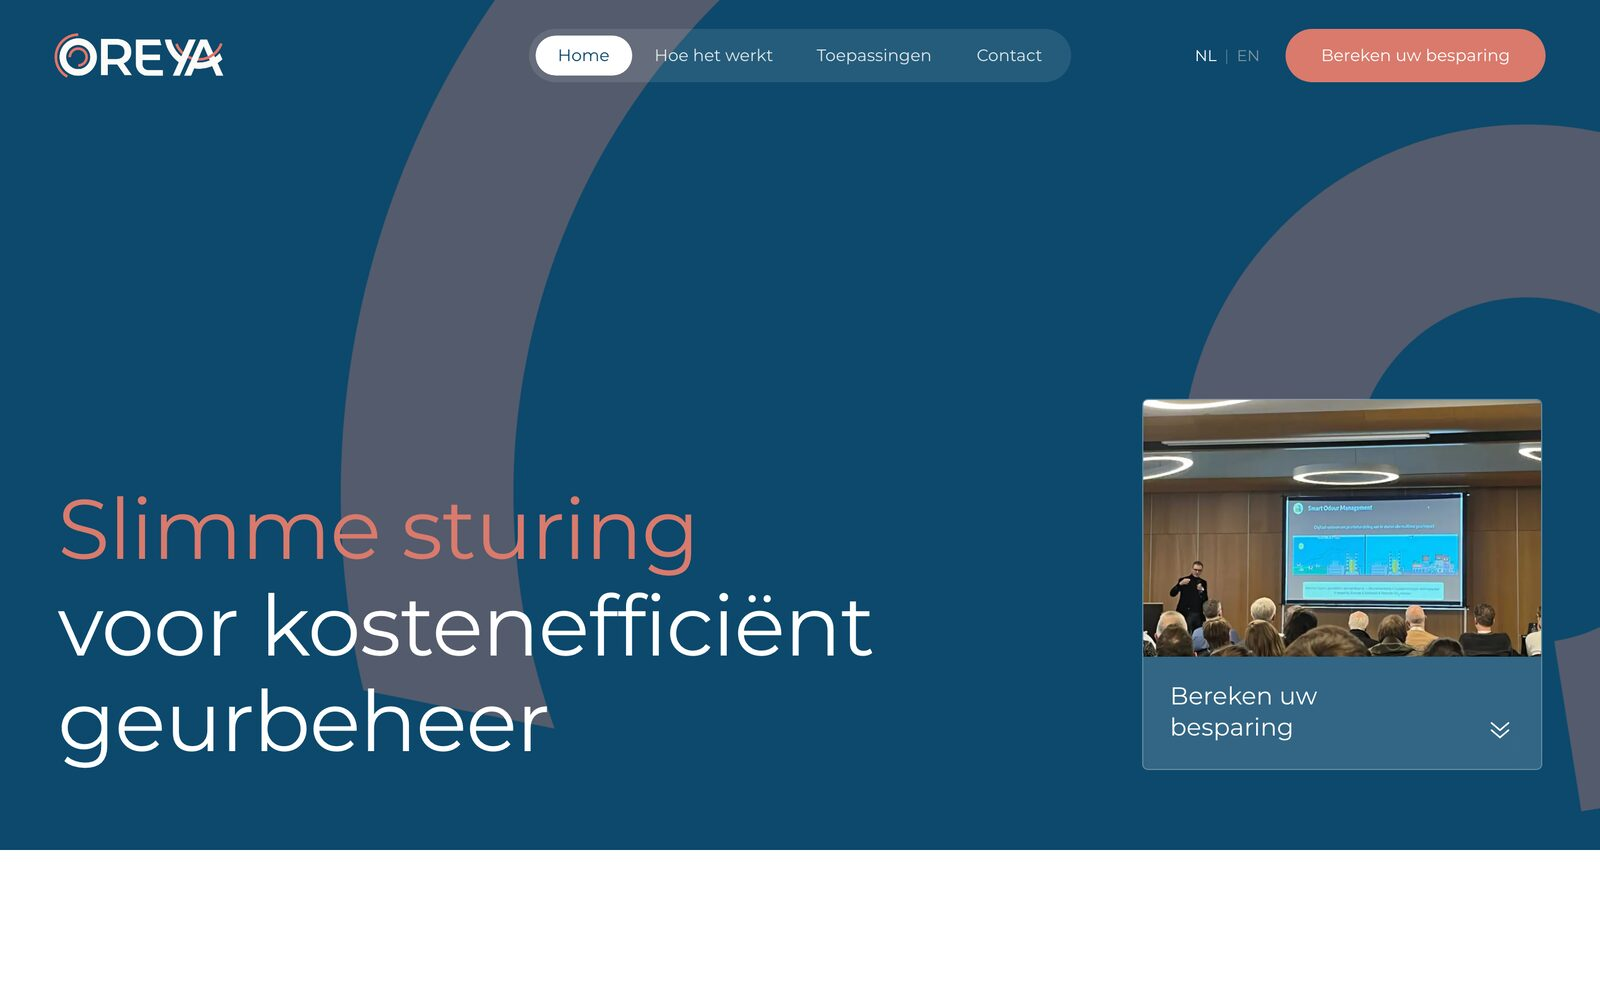
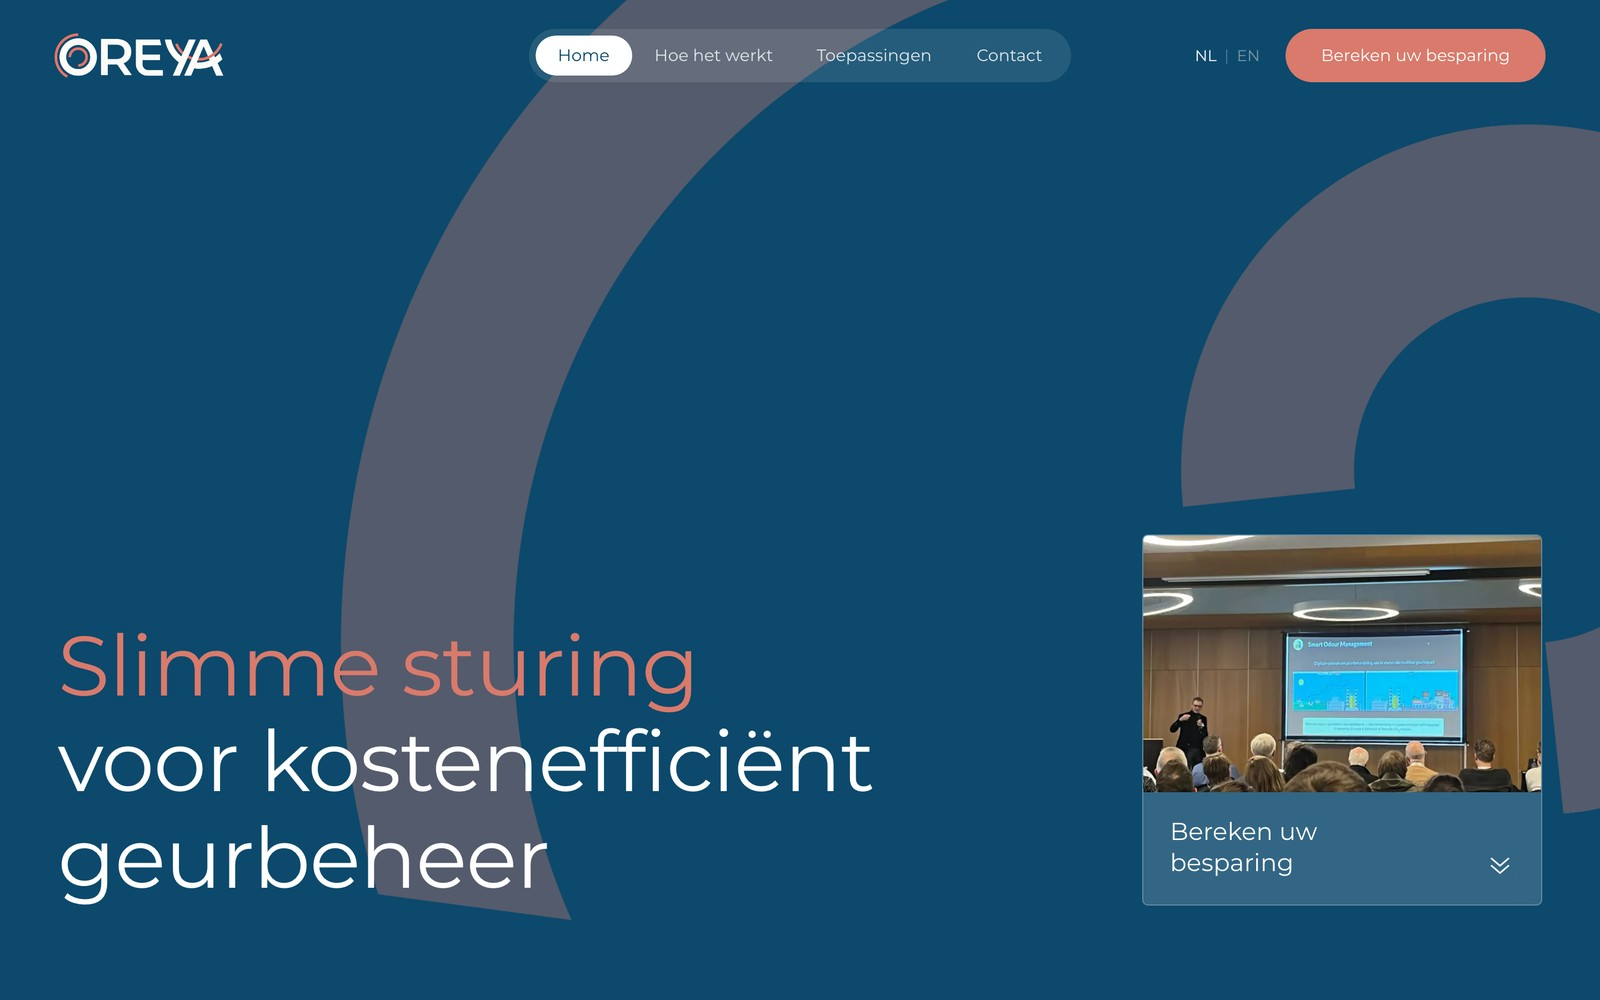
chore: tweaks

diff --git a/src/styles/components/_marquee.css b/src/styles/components/_marquee.css
@@ -9,3 +9,12 @@
 .c-marquee--fill{background:var(--paper);color:var(--ink)}
 .c-marquee__fill{position:absolute;inset:0;background:var(--accent);transform:scaleX(0);transform-origin:left}
 .c-marquee--fill .c-marquee__track{position:relative}
+/* on the /work cards (ProjectGlobe layout grid): the project's name and description under its image, a CSS loop
+   (two equal halves, the track moves by one half); no scroll boost (JS-free, so the list's copies run) */
+.c-marquee--card{width:100%;font-size:var(--fs-body);z-index:auto}
+.c-marquee--card .c-marquee__track{animation:c-marquee-card 28s linear infinite}
+.c-marquee--card .c-marquee__half{display:inline-flex}
+.c-marquee--card .c-marquee__item{gap:var(--space-s);padding-right:var(--space-s)}
+.c-marquee__name{font-weight:500}
+@keyframes c-marquee-card{to{transform:translate3d(-50%,0,0)}}
+@media (prefers-reduced-motion:reduce){ .c-marquee--card .c-marquee__track{animation:none} }

diff --git a/src/styles/base/_tokens.css b/src/styles/base/_tokens.css
@@ -30,6 +30,7 @@
   --on-fg:#170e0b;    /* text on an --fg background (buttons) */
   --surface:#1d1310;  /* panels above the page (cookie banner) */
   --paper:#ffffff;    /* the filling marquee before the accent comes in */
+  --thumb-field:#3a322e; /* the field behind the projects' thumbnails (cards, home's preview, detail visual): a warm charcoal, one in every theme — reads on the paper and a step off the dark chapters (tried Oct 2026: white, paper, grey, ink; the projects' own colours) */
   --thumb:#f3eee8;    /* the field behind a project thumbnail (its home page's screenshot): the page's opposite, for contrast */
   --grain:.07;        /* the paper grain over the site (_grain.css) */
   --page:var(--bg);   /* the page's background */

diff --git a/src/styles/components/_visual.css b/src/styles/components/_visual.css
@@ -18,5 +18,5 @@
 /* thumb (the /work cards, the detail page, scroll-next): the home page's screenshot on a field in the project's own
    light colour (--tb, colors.b), as the home showreel (tried: the page's opposite colour, --thumb; the mood photo
    behind it, too busy) */
-.c-visual--thumb{background:var(--tb,var(--thumb))}
+.c-visual--thumb{background:var(--thumb-field)} /* a neutral field behind every thumbnail (Oct 2026: was the project's own colour, --tb, which clashed with the site's palette); --thumb-field in _tokens.css */
 .c-visual--thumb .c-visual__shot{box-shadow:0 14px 34px rgb(23 14 11 / .28)}

diff --git a/CLAUDE.md b/CLAUDE.md
@@ -30,7 +30,7 @@ Astro (static), plain JS modules, GSAP (ScrollTrigger, ScrambleText, SplitText) 
 - `/` home (`src/pages/index.astro`, the only page with the R canvas).
 - Each R is its own engine instance: one per `<canvas data-r-canvas>`, limited to `data-r-scope` (home: whole page; subpages: `[data-site-header]` for the small header R and `[data-site-footer]` for the big footer R). Instances whose scope is off screen skip their work. The small R (stage 2: projects on home, header on subpages) turns with the mouse like the hero R, at 45% strength (`follow`, `FS` in the engine). The LOADER's R (state 5: loader, page swaps, the menu's flights) and, on phones (<640), the subpages' header R are drawn as the LOGO (Oct 2026; the halftone small R was unreadable on phones; the page's own R's — the hero above all — stay pixelated on purpose): the real R path (`R_PATH`), solid in the ink with its side walls as stacked copies in the walls' tone behind it, placed by an affine least-squares fit of the face particles so it follows them through every flight and turn (`drawLogo` in `engine.js`); blended by state 5's share (`vecA`), so a flight from the loader into the hero turns from the logo into the halftone on the way (tried: every R under ~110px as the logo — the hero on phones lost its pixels). Before that, small R's (<140px) were drawn as halftone squares with a soft gap, ~36 cells tall, shaded (the face in the two strongest tones by its light, the side walls in the two quietest), so they have the big R's air (`SMALLS` / `SMALL = 'airf'` in `r-journey/looks.js`, Oct 2026; was solid cells of 2 device px, which read as a black stamp; tried: crosses boosted to bright (a blob), solid ~40 cells tall, face only, more air (fill .62–.7: too grey)). Non-retina screens (DPR < 1.5), the tiniest R's only (< 80px: header, projects, loader; the services' letters read fine as they are): whole 2px solid cells, the face a tone quieter (the halftone's sub-pixel gaps blurred it into a smudge at 1×).
 - `/404` (`404.astro`, `styles/components/_not-found.css`, noindex, copy `notFoundPage` in `pages.ts`; one screen, no footer; sized so the button fits in 100svh down to 1280×720 and 375×667): "4 R 4" in big type, the R as the 0 (the section's own engine: a canvas scoped to `[data-not-found]`, stage 4, anchor `[data-r-anchor]`, so it turns with the mouse and its pixels move away from the cursor or a finger), then the title (40px @1440), the intro and "Back to home", centred; no header R (`<Page headerR={false}>`: the 404's R is the page's R and the loader's); "Error 404" for screen readers. It's the only error page (a static site); Apache serves it via `ErrorDocument` in `public/.htaccess`. `/sitemap.xml` and `/robots.txt` (static endpoints in `src/pages`, built from `projects.ts` and `site` in `astro.config.mjs`: https://robbevanaken.be).
-- `/work`: with "All" the list never ends (the footer sits below the copies and is never reached; with a filter active the list ends and the footer follows; `components/workLoop.js`: copies of the visible cards below the list, `[data-fp-clone]`, aria-hidden, links unfocusable but clickable; once the first copy reaches where the list starts, the page jumps back one list length; with Lenis the jump shifts its whole state so smooth scrolling runs through; only with "All": with a filter active the list just ends; on touch (native scroll) the jump waits until the scroll has come to rest with the finger lifted (`scrollend` / 160ms idle; a jump mid-fling stuttered or killed the momentum on phones), with copies for 4 screens below so a fling has room (it only jumps mid-scroll when it runs out), and only a real width change rebuilds the copies (the toolbar's resize did, mid-scroll); filtering drops and rebuilds the copies via `work:filter` / `work:filtered` and scrolls back to the top). The title "The project archive" (`sections/WorkIntro.astro`, a step below the hero size: 86px @1440), sticky from the first frame to the end of the page while the projects scroll over it (in the middle of the screen on desktop; below 1024px near the top, under the header); it fades back to 18% over the first half screen (`components/workIntro.js`, `[data-work-intro]`, scrubbed) so the project texts stay readable on top of it and the filter menu (`ui/Filter.astro`, floating level with the sticky title in cols 1–2, above the projects: `.c-work-float`, a zero-height sticky layer; below 1024px just under the title, on the left; phones: fixed at the bottom centre, opening upwards; the closed button at least 176px wide): All + one per category (`projectTags()` in `projects.ts` splits the service: "Development & design" → Development, Design), the options with the count as a superscript, the active one on a quiet tile a step off the panel (`aria-pressed`; the nav's / mobile menu's current-page tile; tried: a small red square in front — used nowhere else); `components/workFilter.js` hides the others (`.is-hidden`) with GSAP Flip (cards glide, leaving ones shrink out, new ones grow in, the list height eases along, then `ScrollTrigger.refresh()`) (pops in once the loader / page swap is gone), then all projects one per row (never side by side), staggered: four slots repeating (cols 3–7 at .8:1, 8–12 at 1.3:1, 5–8 at 1:1, 9–12 at .75:1) (a little extra room between the two columns: `.is-left` / `.is-right` on the visible cards, kept up to date by the filters), two per row of 6 columns, bent the same way but without the corner brackets (`<ProjectGlobe layout="grid">`). The /work cards show the THUMBNAIL, as the home list's preview: the site's home page (`homeShot()` in `projects.ts`, `home.jpg`) on a field in the project's own light colour (`colors.b` → `--tb`: Woonpact sage, Imagoo terracotta, De Wilde-Braems blue — as the home showreel; tried: the page's opposite colour, `--thumb` in `_tokens.css`, still the fallback; `<ProjectVisual thumb>`, `.c-visual--thumb`; Toran, without screens: its mood photo). The thumbnail is the main visual EVERYWHERE now (`ProjectVisual`'s default, `thumb={null}` opts out): the /work cards, the detail page's visual and the scroll-next section, so the open-project and next-project flights carry one image again; the mood photos (`image`) stay for Toran and as the fallback. In the scroll-next section the thumbnail keeps the labels' band clear (`--band`) and moves up into its place on the next page as they fade (`--visual-bare` 0 → 1 at .8–1 of the pin, `scrollNext.js`).
+- `/work`: with "All" the list never ends (the footer sits below the copies and is never reached; with a filter active the list ends and the footer follows; `components/workLoop.js`: copies of the visible cards below the list, `[data-fp-clone]`, aria-hidden, links unfocusable but clickable; once the first copy reaches where the list starts, the page jumps back one list length; with Lenis the jump shifts its whole state so smooth scrolling runs through; only with "All": with a filter active the list just ends; on touch (native scroll) the jump waits until the scroll has come to rest with the finger lifted (`scrollend` / 160ms idle; a jump mid-fling stuttered or killed the momentum on phones), with copies for 4 screens below so a fling has room (it only jumps mid-scroll when it runs out), and only a real width change rebuilds the copies (the toolbar's resize did, mid-scroll); filtering drops and rebuilds the copies via `work:filter` / `work:filtered` and scrolls back to the top). The title "The project archive" (`sections/WorkIntro.astro`, a step below the hero size: 86px @1440), sticky from the first frame to the end of the page while the projects scroll over it (in the middle of the screen on desktop; below 1024px near the top, under the header); it fades back to 18% over the first half screen (`components/workIntro.js`, `[data-work-intro]`, scrubbed) so the project texts stay readable on top of it and the filter menu (`ui/Filter.astro`, floating level with the sticky title in cols 1–2, above the projects: `.c-work-float`, a zero-height sticky layer; below 1024px just under the title, on the left; phones: fixed at the bottom centre, opening upwards; the closed button at least 176px wide): All + one per category (`projectTags()` in `projects.ts` splits the service: "Development & design" → Development, Design), the options with the count as a superscript, the active one on a quiet tile a step off the panel (`aria-pressed`; the nav's / mobile menu's current-page tile; tried: a small red square in front — used nowhere else); `components/workFilter.js` hides the others (`.is-hidden`) with GSAP Flip (cards glide, leaving ones shrink out, new ones grow in, the list height eases along, then `ScrollTrigger.refresh()`) (pops in once the loader / page swap is gone), then all projects one per row (never side by side), staggered: four slots repeating (cols 3–7 at .8:1, 8–12 at 1.3:1, 5–8 at 1:1, 9–12 at .75:1) (a little extra room between the two columns: `.is-left` / `.is-right` on the visible cards, kept up to date by the filters), two per row of 6 columns, bent the same way but without the corner brackets (`<ProjectGlobe layout="grid">`). The thumbnails' field is NEUTRAL now (Oct 2026: `--thumb-field` in `_tokens.css`, a warm charcoal `#3a322e` in every theme, on the /work cards, home's preview / mobile rows, the detail visual and scroll-next; was the project's own light colour `colors.b` → `--tb`, still set but unused). To compare (any build): `?field=white|paper|grey|charcoal|ink` (sessionStorage `field`, set by the inline script in `Base.astro`). The /work cards carry their name and description on an ACCENT BAND right under the image (Oct 2026: over the sticky title behind the cards the plain caption was unreadable; `.c-marquee--card` in `_marquee.css`: a CSS loop of two equal halves, so the list's copies run too, no scroll boost; the heading stays for screen readers, `u-sr-only`; tried: a speed-up on hover — changing the animation's duration made it jump). The /work cards show the THUMBNAIL, as the home list's preview: the site's home page (`homeShot()` in `projects.ts`, `home.jpg`) on a field in the project's own light colour (`colors.b` → `--tb`: Woonpact sage, Imagoo terracotta, De Wilde-Braems blue — as the home showreel; tried: the page's opposite colour, `--thumb` in `_tokens.css`, still the fallback; `<ProjectVisual thumb>`, `.c-visual--thumb`; Toran, without screens: its mood photo). The thumbnail is the main visual EVERYWHERE now (`ProjectVisual`'s default, `thumb={null}` opts out): the /work cards, the detail page's visual and the scroll-next section, so the open-project and next-project flights carry one image again; the mood photos (`image`) stay for Toran and as the fallback. In the scroll-next section the thumbnail keeps the labels' band clear (`--band`) and moves up into its place on the next page as they fade (`--visual-bare` 0 → 1 at .8–1 of the pin, `scrollNext.js`).
 - Contact is a POPUP for JS visitors (Oct 2026; the page was too much): `sections/ContactModal.astro` (in `Base.astro` outside `#swup`, so it survives page swaps and a half-filled form with it), `global/contactModal.js` (once, from `main.js`; it also runs `initContactForm` + `initLocalTime` on it), `_contact-modal.css`. Every link to `/contact` opens it (a capture click listener, ahead of swup; from the mobile menu the menu plays out first), a direct visit to `/contact` goes to `/?contact`, which opens it on load. It is a fixed layer ABOVE the site header (z 40; tried: under it at z 29, the panel below the header — he wanted it taller and centred): the header shows dimmed through the veil with "Contact" as the active nav item (the tile glides there: `contact:open` / `contact:close` events in `siteHeader.js`; on close the tile returns to the page we're on — focus goes back to the trigger BEFORE the close signal, since the tile follows focus), and any other link closes it on its way. A dark veil with a light blur (`--ink` 42%; tried a paper-tinted veil: the panel's edges melted into the page) and a paper panel below the header (`--head`, measured), 10 columns wide, its own scroll; in: the panel opens from its centre (clip-path, the site's media reveal, rising a touch), its parts follow in a short cascade; out: short and soft, the panel whole — it sinks a touch and fades, the veil just behind (tried: closing into its centre: a square shrinking on a blank veil). Its own scroll (`[data-contact-scroll]`) with a custom scrollbar instead of the native one: a 1px line with a dark thumb (`[data-contact-scrollbar]`, sized by the script; NOT `data-contact-bar`, the form's progress segments use that). A real TAP outside the panel closes it (pressed and released outside, barely moved, not within 450ms of opening: on phones a press that becomes a scroll or the keyboard sliding up must not count), the header's strip included (it lies above the veil), except on the header's links and buttons. The header's scrim (`.c-site-header__body::before`, 60px below it) is `pointer-events:none`: it sat over the panel's top and caught taps there — on phones the popup closed on random taps, on desktop the close button got no hover. The close button has the menu toggle's hover (the label swaps to a copy sliding up, the cross turns). The panel is centred on the screen, as tall as it allows (max 960px, 24px from the edges; phones: nearly the whole screen). Inside, everything the page had: place + local time, the title as a two-tone statement (h2 size, medium), the intro, a close button (label + cross, turning on hover), the details (portrait, email, phone, socials) and the form wizard. While open: the page beside the header is inert, it can't scroll (Lenis stopped, wheel / touch outside the panel blocked), the R canvases and the fixed tiles fade out (`html.is-contact-open`); Escape, the close button, the veil or back / forward close it; focus goes to the form's current field on open. Reduced motion: no motion. The contact page below stays as the no-JS fallback (`<Page contact={false}>`: no popup there, it would duplicate the form's ids); it's out of the sitemap.
 - `/contact` (`pages/contact.astro`, copy + form settings in `contactPage` in `pages.ts`; the portrait sits above the details, two grid columns wide (a quiet placeholder until `portrait.image` is set); tried and dropped: a footer with only the bottom bar): the hero (`sections/ContactIntro.astro`: only a `u-text-hero` title in two parts, each on its own line, the first muted like the footer title: "Have a project in mind? / Let's talk.", in the title frame as on the project pages: the corner brackets margin to margin, coming in as the page arrives; not on /work (its sticky title fades behind the projects) or /privacy (dry on purpose)), then the details (`sections/ContactDetails.astro`: portrait (placeholder until `portrait.image` is set), email + phone ("Contact details") and socials; cols 1–4, not sticky; the portrait placeholder only renders in `npm run dev`, builds leave it out until `portrait.image` is set) and the form (`sections/ContactForm.astro`, cols 6–12): numbered questions, the titles in medium 500 (the statements' voice; the home hero stays 400 by choice), the thank-you at the questions' size (lead + body; was h2 + body-l, far too big) (name (first + last), email, company (optional), budget (square chips, radio buttons), message (grows with its text)), underlined fields whose line fills in from the left on focus, orange when invalid. Tablet/phones: the form first, the details below. Phones: the wizard stacks the name fields with more air between its parts. With JavaScript the form is a wizard: one question at a time, the count ("02 / 05") and a progress line (one segment per question, like the services) on top, Back / Next below, the send button + privacy note on the last step; the wizard (and the thank-you) sits on a quiet panel (`--panel`: `--fg` 6% over `--bg` in dark, 8% in light, padded); Next checks the step first, Enter = Next, a budget choice doesn't move on (only Next does), Cmd/Ctrl+Enter sends; the old question leaves upwards, the new one comes up from below (copy: `form.wizard`). `scripts/components/contactForm.js`: validates per step and on submit (then live; a failed submit jumps to the step), focuses the first invalid field, errors tied to their input; it POSTs to `form.action` = `/api/contact.php` (`public/api/contact.php`, uploaded with the site: checks the fields and the spam trap, mails them with PHP `mail()` to robbe.vanaken@gmail.com, From an address on the site's domain, Reply-To the visitor, answers JSON) and swaps the form for the thank-you message; on an error it shows the error with the email address. Needs PHP + mail() on the host (if mail() isn't allowed, switch the script to the host's SMTP). Not in `npm run dev` (no PHP there): test with `npm run build` + `php -S` in `dist`. Without an action the visitor's email app would open instead. Spam trap field `website`. Hooks `data-contact*`. `ui/Button.astro` renders a `<button>` when it has no `href` (`type="submit"`).
 - `/privacy` (`pages/privacy.astro`, `sections/Legal.astro`, `styles/components/_legal.css`, copy `privacyPage` in `pages.ts`): the privacy notice, dry on purpose: the page intro, the date, then numbered sections between thin lines (number col 1, title cols 2–5, text cols 7–12 at 16px muted); blocks are paragraphs, short lists, small tables (name / what for / how long) and the company's details (`company.address` and `.number` show once filled in). It describes what the site really does (contact form → mail, the `cc_cookie` consent cookie, `loaded` in sessionStorage, no analytics yet, self-hosted fonts): keep it in step when that changes.
